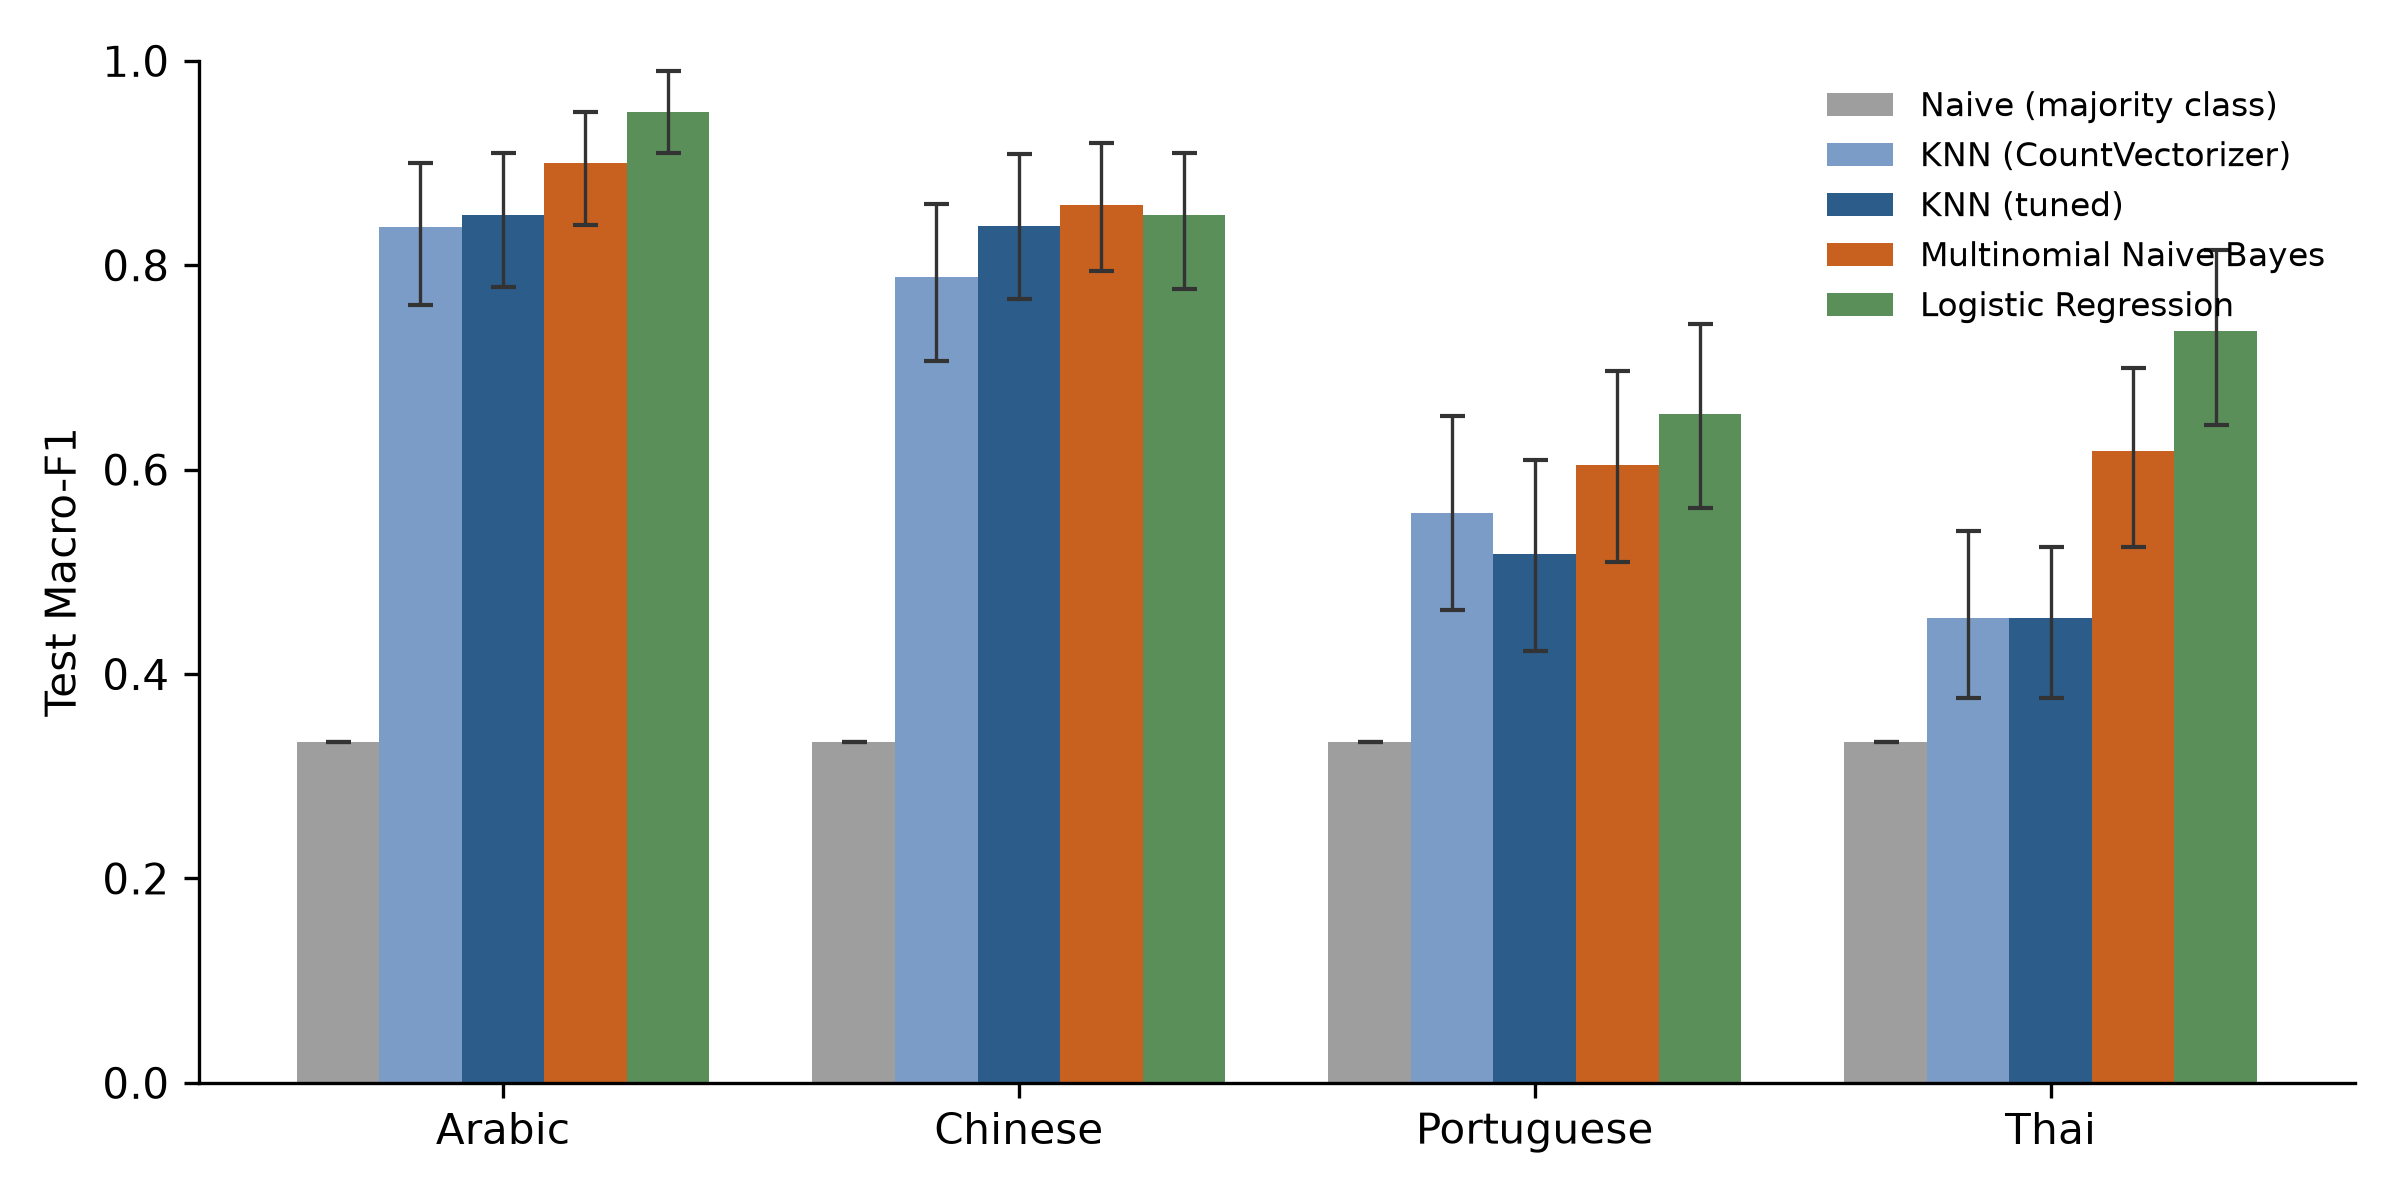
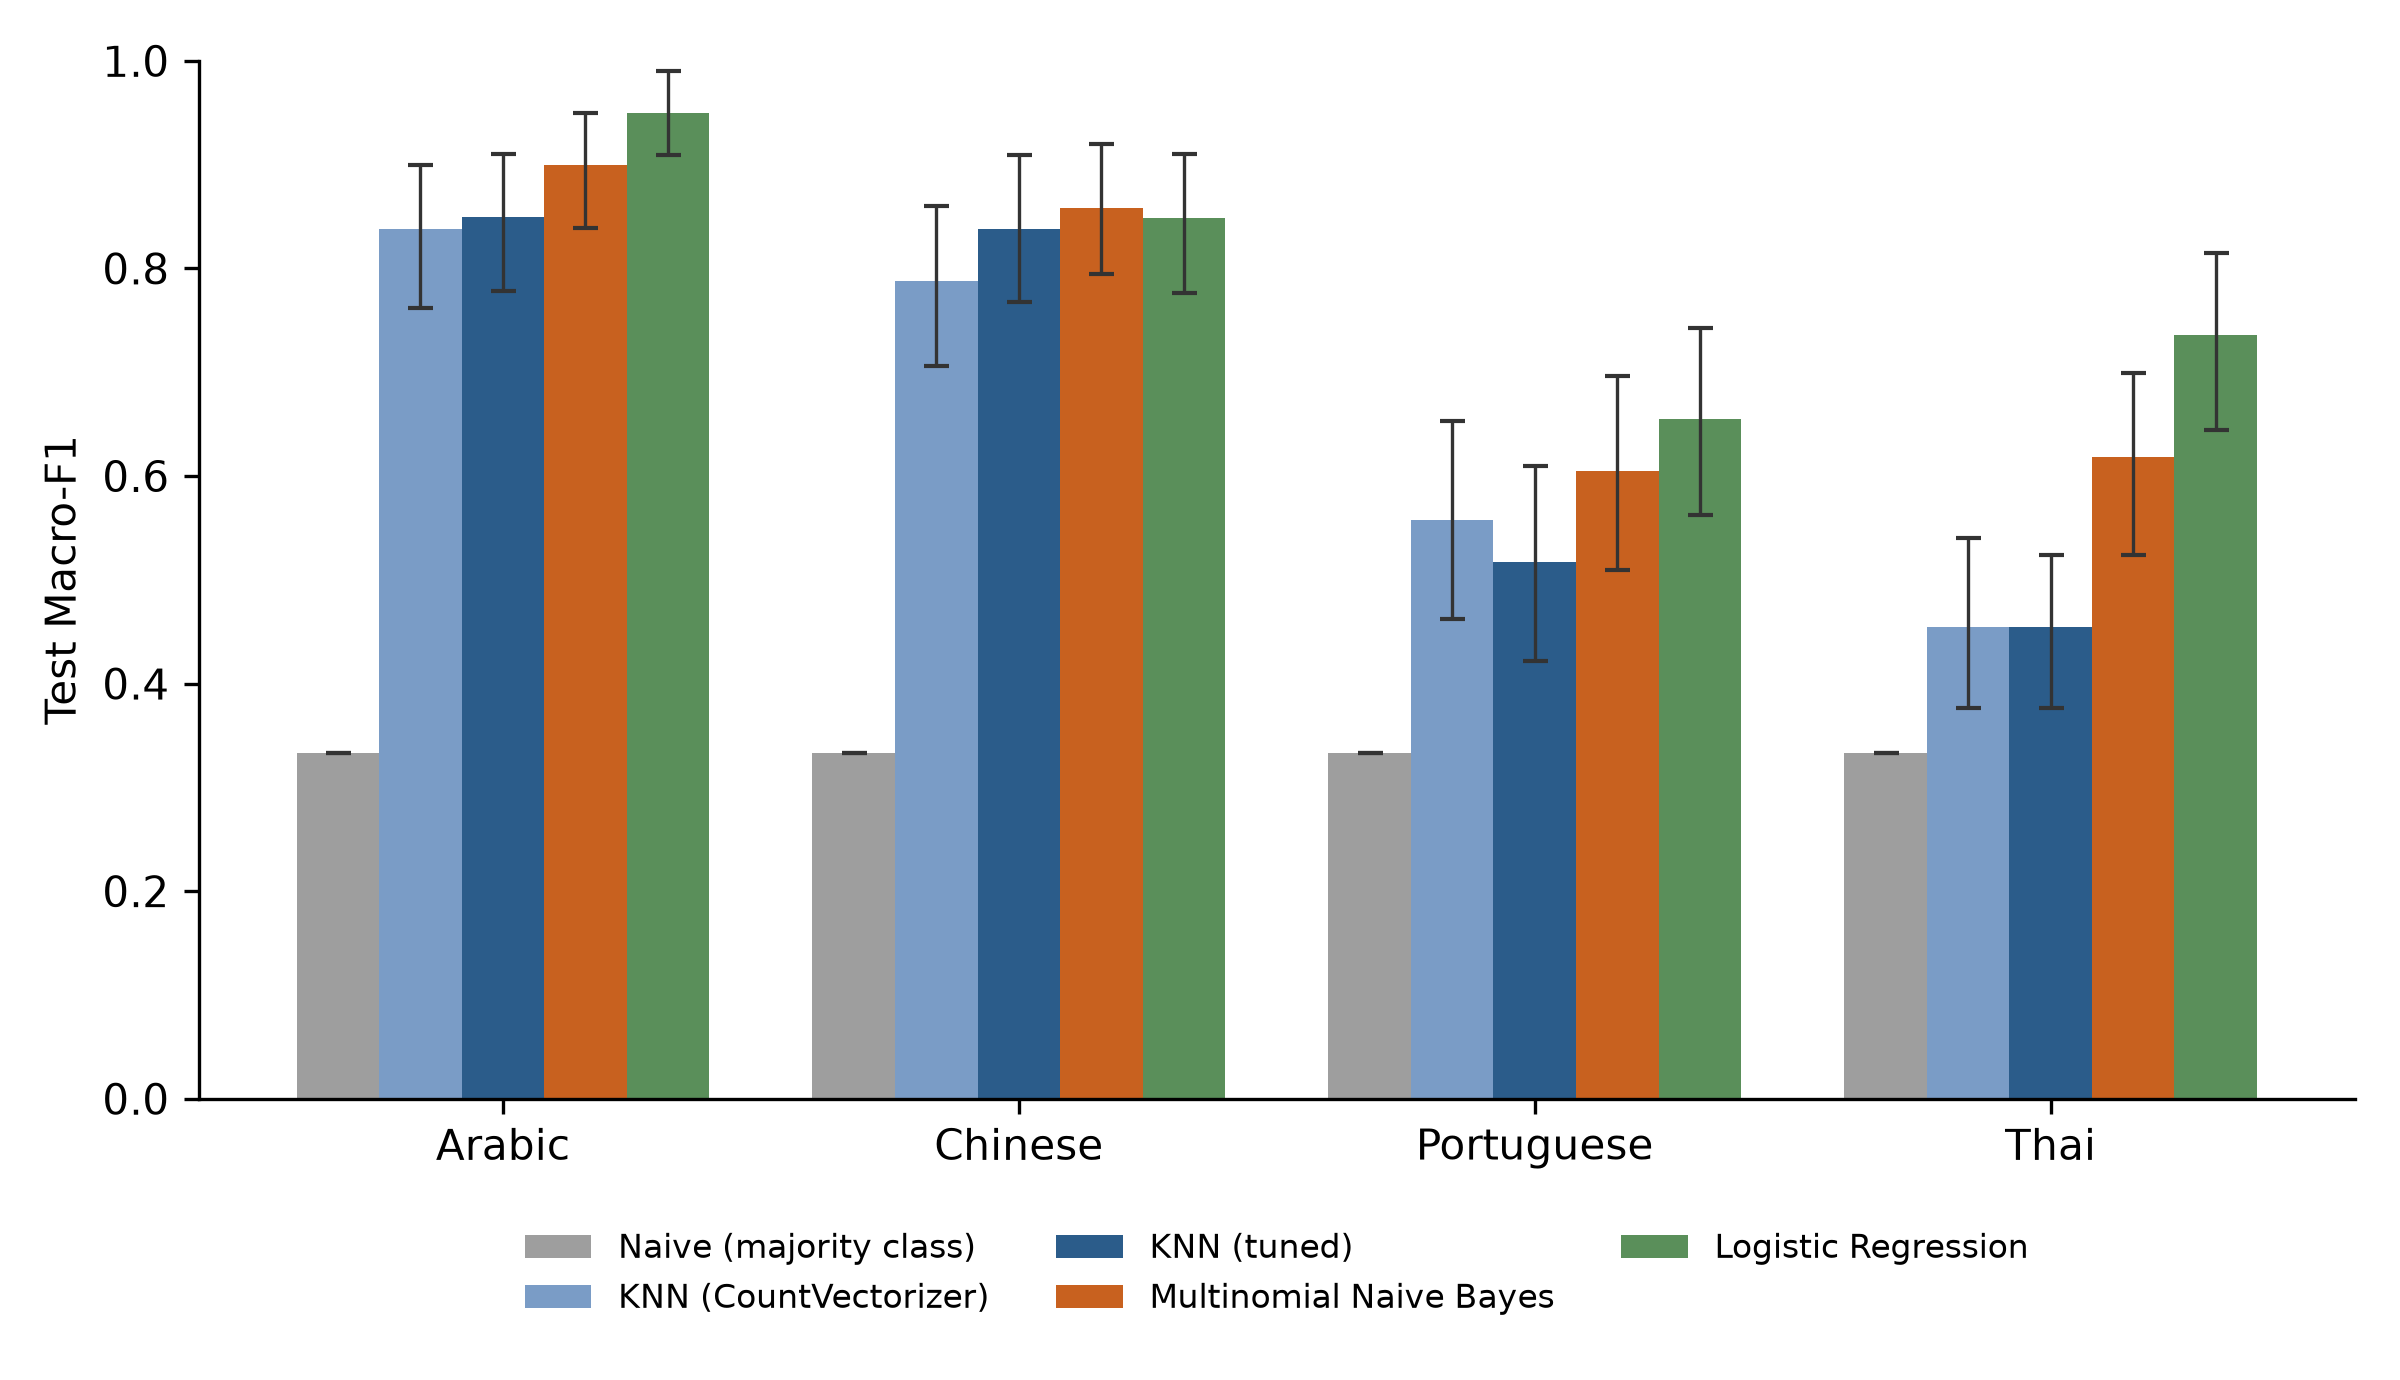
Use tuned KNN in error analysis, move figure legend, final results with LR

diff --git a/src/main_results.py b/src/main_results.py
@@ -64,7 +64,7 @@ def make_table(df, models):
 
 def make_figure(df, models):
     colors = ["#9e9e9e", "#7a9cc6", "#2b5c8a", "#c8611f", "#5a8f5a", "#8a5a9e"]
-    fig, ax = plt.subplots(figsize=(8, 4))
+    fig, ax = plt.subplots(figsize=(8, 4.6))
     width = 0.8 / len(models)
 
     for i, model in enumerate(models):
@@ -82,7 +82,7 @@ def make_figure(df, models):
     ax.set_ylabel("Test Macro-F1")
     ax.set_ylim(0, 1)
     ax.spines[["top", "right"]].set_visible(False)
-    ax.legend(frameon=False, fontsize=8, loc="upper right")
+    ax.legend(frameon=False, fontsize=8, loc="upper center", bbox_to_anchor=(0.5, -0.1), ncol=3)
     fig.tight_layout()
     fig.savefig(RESULTS / "main_results_figure.png", dpi=300)
 

diff --git a/src/error_analysis_best.py b/src/error_analysis_best.py
@@ -28,7 +28,7 @@ from src.data_pipeline import load_splits  # noqa: E402
 RESULTS = ROOT / "results"
 LANGUAGES = ["Arabic", "Chinese", "Portuguese", "Thai"]
 KEYWORDS = {"Arabic": "اكتئاب", "Chinese": "抑郁", "Portuguese": "suicid", "Thai": "ซึมเศร้า"}
-KNN_NAME = "KNN (CountVectorizer)"
+KNN_NAME = "KNN (tuned)"
 
 
 def load_all_predictions():
